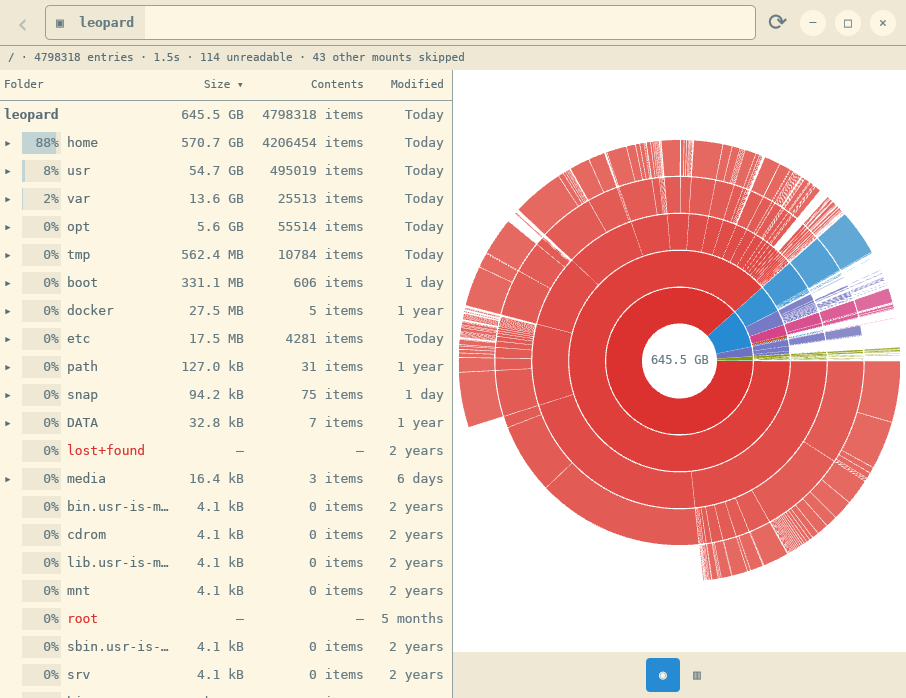
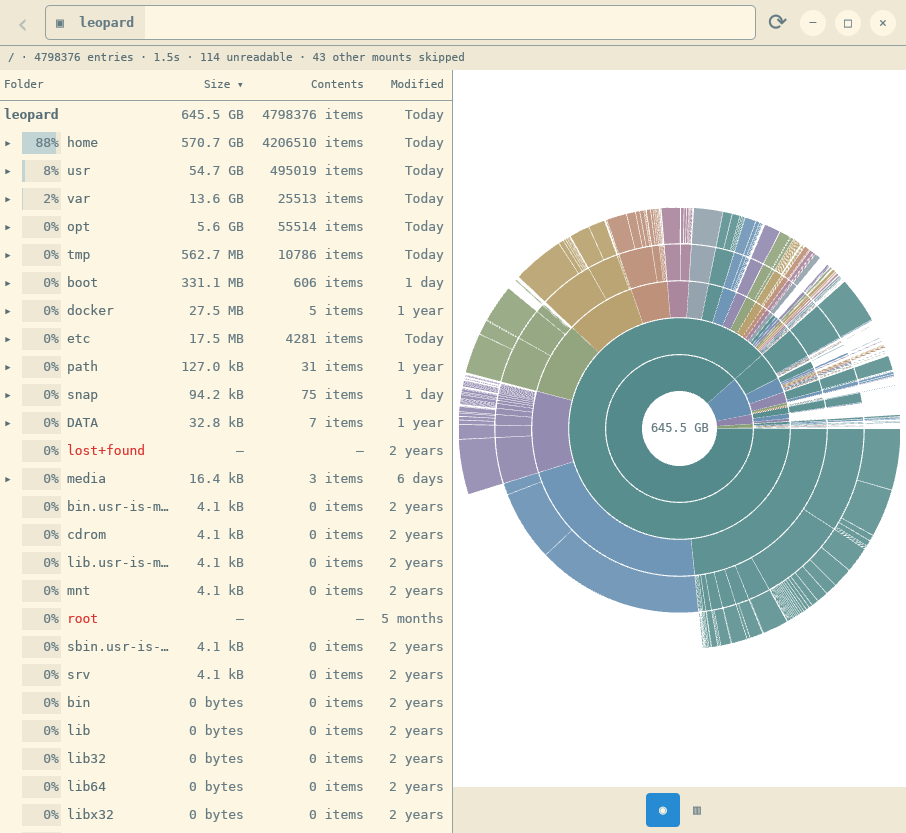
Use muted branch-aware colors for disk usage charts

diff --git a/src/chart.rs b/src/chart.rs
@@ -127,7 +127,7 @@ impl Segment {
 pub fn layout(node: &Node, bounds: Bounds<Pixels>, treemap: bool) -> Vec<Segment> {
     let mut segments = vec![];
     if treemap {
-        rectangles(node, bounds, vec![], 0, &mut segments);
+        rectangles(node, bounds, vec![], 0, 0, &mut segments);
     } else {
         let center = bounds.center();
         let radius = f32::from(bounds.size.width.min(bounds.size.height)) / 2. - 5.;
@@ -150,22 +150,36 @@ pub fn hit(
         .map(|s| s.path)
 }
 
+// Muted categorical colors for a white canvas; red remains an error color in the UI.
 const COLORS: [u32; 8] = [
-    theme::RED,
-    theme::BLUE,
-    theme::VIOLET,
-    theme::GREEN,
-    theme::CYAN,
-    theme::MAGENTA,
-    theme::YELLOW,
-    theme::ORANGE,
+    0x548a8b, 0x668fb2, 0x8d83ab, 0x8b9f76, 0xb49b65, 0xb98970, 0xa57f97, 0x8c9da8,
 ];
 
+fn splits_colors(node: &Node, depth: usize) -> bool {
+    depth == 0
+        || (depth <= 2
+            && node
+                .children
+                .iter()
+                .filter(|child| child.bytes > node.bytes / 100)
+                .take(2)
+                .count()
+                == 2)
+}
+
+fn branch_color(parent: u32, index: usize, split: bool) -> u32 {
+    if split {
+        COLORS[index % COLORS.len()]
+    } else {
+        parent
+    }
+}
+
 fn shade(color: u32, level: usize) -> u32 {
-    let tint = level as f32 * 0.07;
+    let tint = level as f32 * 0.035;
     let c = |shift: u32| {
         let accent = ((color >> shift) & 255u32) as f32;
-        let paper = ((theme::BACKGROUND >> shift) & 255u32) as f32;
+        let paper = ((theme::CHART_BACKGROUND >> shift) & 255u32) as f32;
         (accent * (1. - tint) + paper * tint) as u32
     };
     c(16) << 16 | c(8) << 8 | c(0)
@@ -189,6 +203,7 @@ fn rings(
     let hole = radius / 6.;
     let width = (radius - hole) / 5.;
     let mut angle = start;
+    let split_colors = splits_colors(node, depth);
     for (i, child) in node.children.iter().enumerate() {
         let sweep = (end - start) * child.bytes as f32 / node.bytes as f32;
         if sweep < 0.001 {
@@ -197,15 +212,7 @@ fn rings(
         let mut child_path = path.clone();
         child_path.push(i);
         let gap = 0.0015_f32.min(sweep * 0.15);
-        let base = if depth == 0 {
-            COLORS[i % COLORS.len()]
-        } else if path.first() == Some(&0) && depth == 1 {
-            [theme::RED, theme::GREEN, theme::CYAN, theme::VIOLET][i % 4]
-        } else if path.first() == Some(&1) && depth == 1 {
-            [theme::BLUE, theme::VIOLET, theme::MAGENTA, theme::ORANGE][i % 4]
-        } else {
-            color
-        };
+        let base = branch_color(color, i, split_colors);
         segments.push(Segment {
             path: child_path.clone(),
             color: shade(base, depth),
@@ -237,6 +244,7 @@ fn rectangles(
     bounds: Bounds<Pixels>,
     path: Vec<usize>,
     depth: usize,
+    color: u32,
     segments: &mut Vec<Segment>,
 ) {
     if node.bytes == 0 || depth > 3 {
@@ -244,6 +252,7 @@ fn rectangles(
     }
     let horizontal = bounds.size.width > bounds.size.height;
     let mut offset = 0.;
+    let split_colors = splits_colors(node, depth);
     for (i, child) in node.children.iter().enumerate() {
         let fraction = child.bytes as f32 / node.bytes as f32;
         if fraction < 0.001 {
@@ -263,13 +272,14 @@ fn rectangles(
         b.origin += point(px(1.), px(1.));
         b.size.width -= px(2.);
         b.size.height -= px(2.);
+        let base = branch_color(color, i, split_colors);
         segments.push(Segment {
-            color: shade(COLORS[child_path[0] % COLORS.len()], depth),
+            color: shade(base, depth),
             path: child_path.clone(),
             shape: Shape::Rect(b),
         });
         if b.size.width > px(16.) && b.size.height > px(16.) {
-            rectangles(child, b, child_path, depth + 1, segments);
+            rectangles(child, b, child_path, depth + 1, base, segments);
         }
     }
 }

diff --git a/src/theme.rs b/src/theme.rs
@@ -5,11 +5,5 @@ pub const SURFACE: u32 = 0xeee8d5;
 pub const TEXT: u32 = 0x657b83;
 pub const EMPHASIS: u32 = 0x586e75;
 pub const BORDER: u32 = 0x93a1a1;
-pub const YELLOW: u32 = 0xb58900;
-pub const ORANGE: u32 = 0xcb4b16;
 pub const RED: u32 = 0xdc322f;
-pub const MAGENTA: u32 = 0xd33682;
-pub const VIOLET: u32 = 0x6c71c4;
 pub const BLUE: u32 = 0x268bd2;
-pub const CYAN: u32 = 0x2aa198;
-pub const GREEN: u32 = 0x859900;
